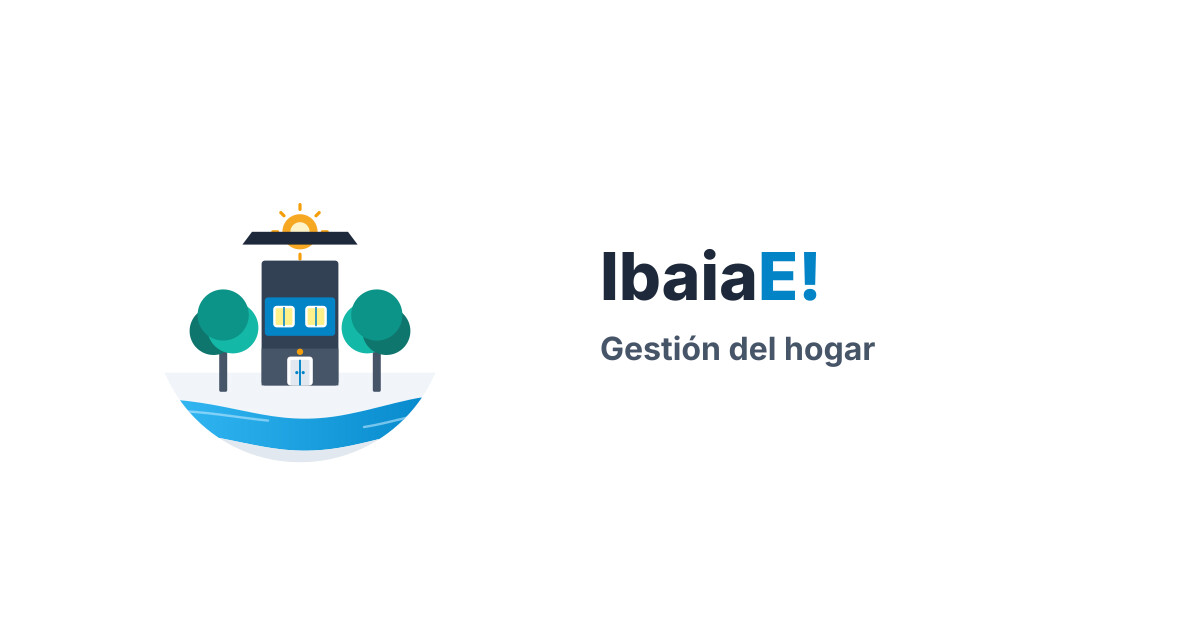
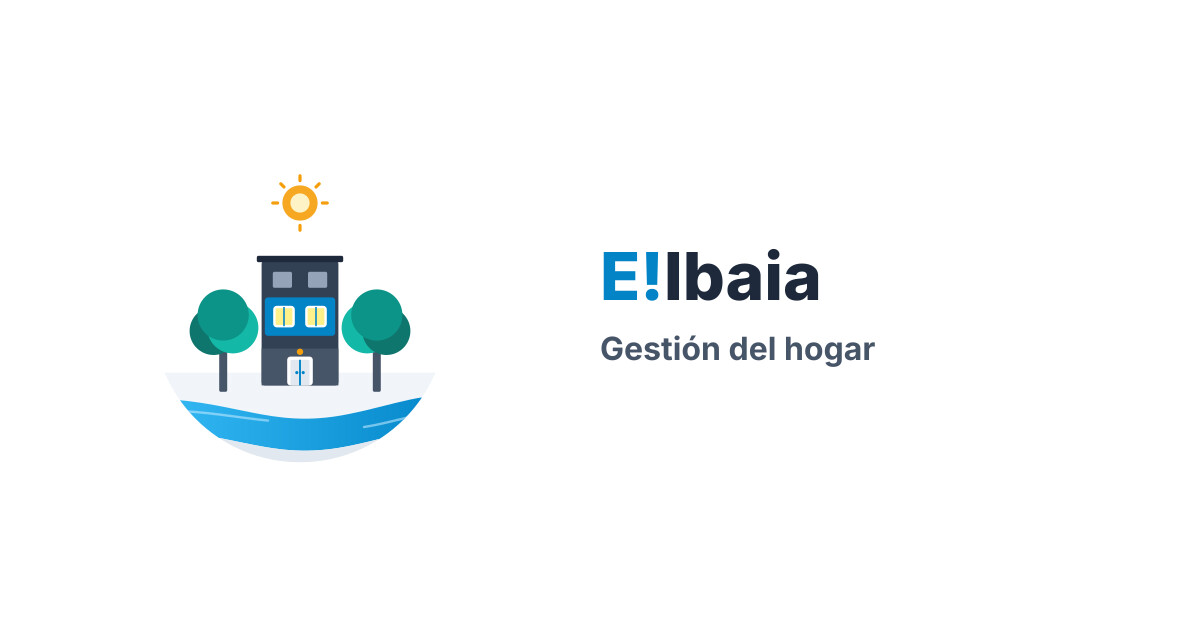
Corrige wordmark a E!Ibaia y arregla tejado/ventanas en og-share.jpg
El wordmark del emblema decía 'IbaiaE!' en vez de 'E!Ibaia' (el orden
correcto, ya usado en el resto de la app) en Logo.vue, logo-home.svg y
logo-home-full.svg. Además, og-share.jpg se había generado con la
composición de edificio equivocada (la del icono de app, con tejado
triangular sin anclar al cuerpo del edificio y sin las ventanas grises
de la planta superior) en vez de la del emblema de portada; se
regenera con la composición correcta.

Changed region(s): [[0.4933, 0.3921, 0.7092, 0.4825], [0.185, 0.2714, 0.3083, 0.4524]]

diff --git a/frontend/src/core/components/Logo.vue b/frontend/src/core/components/Logo.vue
@@ -22,7 +22,7 @@ withDefaults(defineProps<{ width?: number; height?: number }>(), { width: 260, h
       <!-- Ilustración recortada en círculo (sin bordes ni fondo de cielo) -->
       <g clip-path="url(#circleClip)">
         <!-- Sol / Ícono de energía superior (Naranja / Ámbar) -->
-        <g transform="translate(0, -52)">
+        <g transform="translate(0, -70)">
           <circle cx="0" cy="0" r="11" fill="#f59e0b" opacity="0.9" />
           <circle cx="0" cy="0" r="6" fill="#fef3c7" />
           <g stroke="#f59e0b" stroke-width="2" stroke-linecap="round">
@@ -105,7 +105,7 @@ withDefaults(defineProps<{ width?: number; height?: number }>(), { width: 260, h
     </g>
 
     <!-- Tipografía y Subtextos -->
-    <text x="250" y="338" text-anchor="middle" class="brand-title">Ibaia<tspan class="brand-accent">E!</tspan></text>
+    <text x="250" y="338" text-anchor="middle" class="brand-title"><tspan class="brand-accent">E!</tspan>Ibaia</text>
     <text x="250" y="378" text-anchor="middle" class="brand-sub">GESTIÓN DEL HOGAR</text>
     <text x="250" y="404" text-anchor="middle" class="brand-tag">IBAIA ETXEBIZITZA</text>
   </svg>
